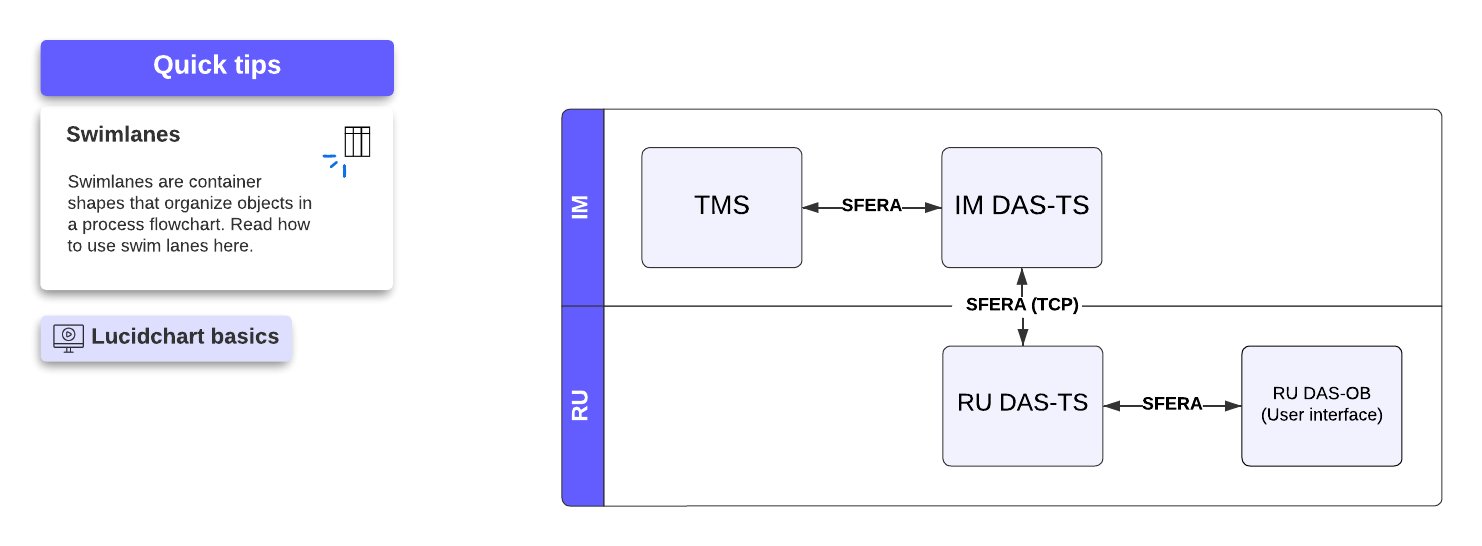
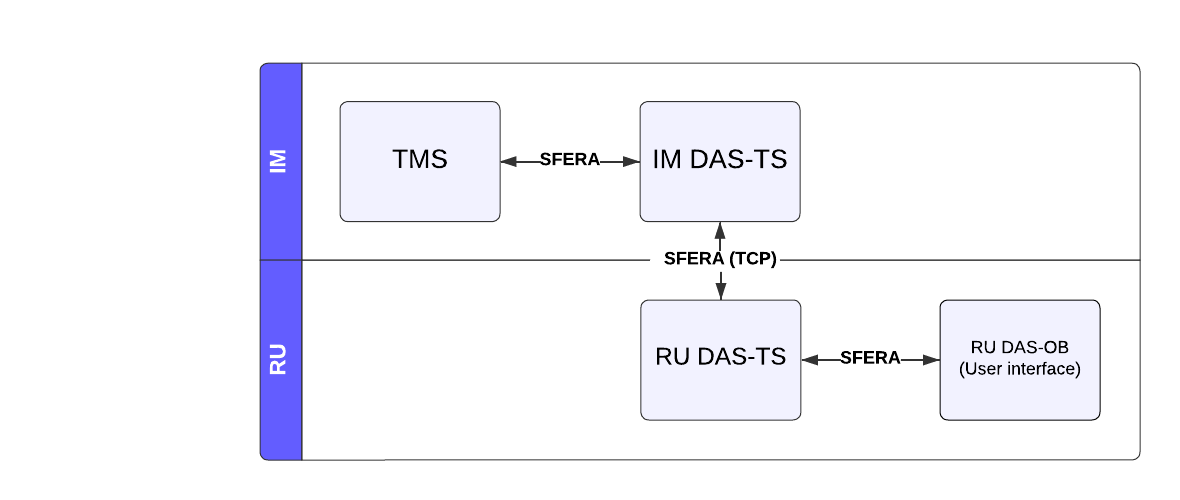
11112222

diff --git a/src/a_inledning/b_begrepp_och_forkortningar.tex b/src/a_inledning/b_begrepp_och_forkortningar.tex
@@ -160,3 +160,11 @@ Hastighetsanvisningar eller råd från C-DAS-OB som presenteras för lokföraren
 Driving profile baseras på realtidsdata, TPE och andra begränsande faktorer~\cite{IRS90940}.
 Anvisningar/råd kan exempelvis bestå av \lq{}pådrag\rq{}, \lq{}farthållning\rq{}, \lq{}frirull\rq{}, \lq{}broms\rq{} eller en specifik hastighet~\cite{IRS90940}.
 Driving profile beräknas av en algoritm som järnvägsföretaget implementerar i sin C-DAS-lösning.
+\subsubsection{Dataflödet inom SFERA}
+\begin{figure}[hbt!]
+    \centering
+    \includegraphics[width=0.8\textwidth]
+    {SFERA-communication}
+    \caption{Kommunikationsdiagram}
+    \label{fig:Kommunikationsdiagram}
+\end{figure}
